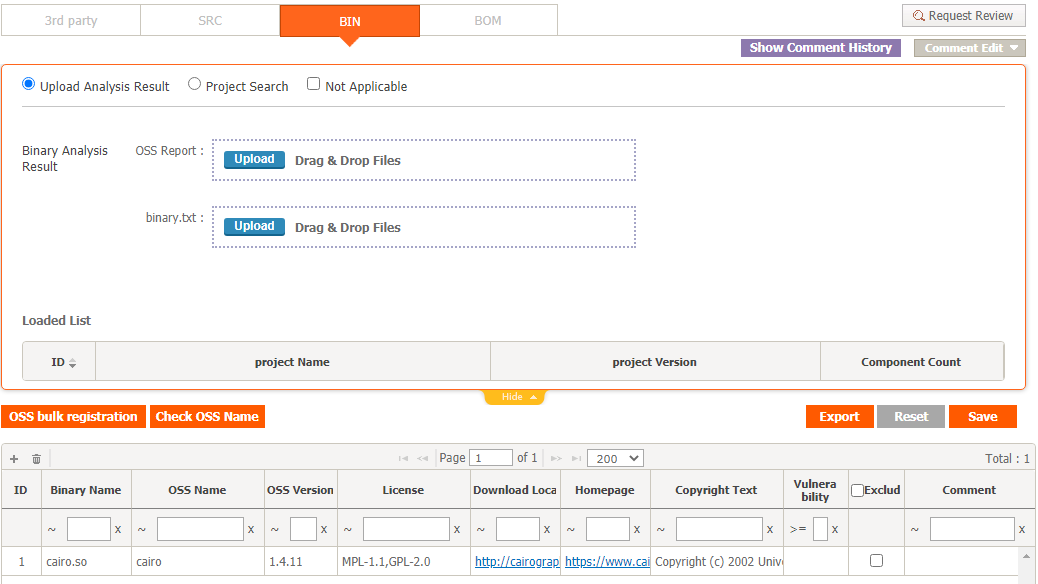
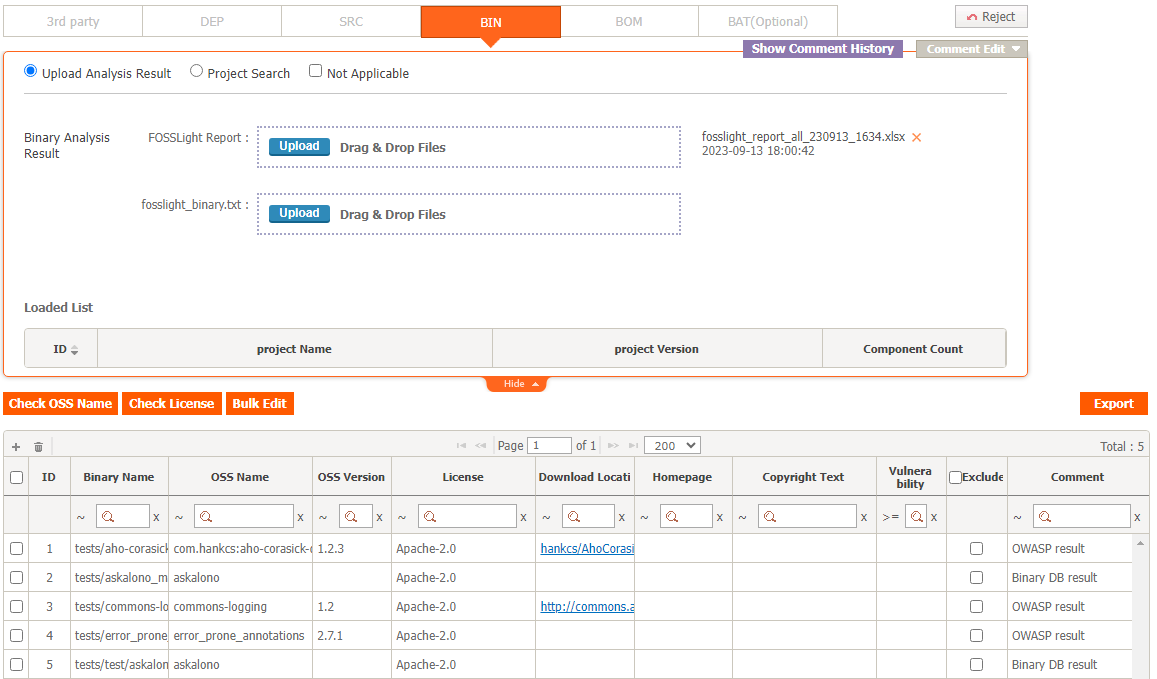
update dep tab

diff --git a/started/2_try/4_project.md b/started/2_try/4_project.md
@@ -78,7 +78,23 @@ Project List에서 Project Name을 더블 클릭합니다.
 1. 3rd Party Search : 3rd Party List 메뉴에서 Status: confirm인 3rd Party Software를 검색하고 load합니다.
 2. Project Search : 다른 Project의 3rd Party 탭을 load합니다.
 
-#### 2-2. SRC Tab
+#### 2-2. DEP Tab
+![prj](../images/4_project_dep.png)
+*DEP 탭 작성 Process*
+- Package manager를 통해 OSS가 포함된 경우: 각 dependency의 OSS 정보를 작성 -> Save
+- Package manager를 통해 OSS가 포함되지 않은 경우 : Not Applicable 체크 → Save
+
+*각 dependency의 OSS 정보 작성 방법* 
+- OSS Table에 수기로 작성
+    - OSS Table의 좌측 상단 + 버튼을 클릭하여 OSS 정보를 기입합니다.
+- OSS 정보 일괄 Load 하는 방법
+    1. Upload Analysis Result 란에 OSS List를 작성한 FOSSLight Report를 업로드합니다. 
+        - Load 가능한 FOSSLight Report 양식은 우측 상단 "Export"버튼을 클릭하면 다운로드 가능합니다. 
+    2. Project Search : 다른 Project의 DEP 탭을 Load합니다.
+- Scanner를 통해 자동 작성 방법
+    - FOSSLight Dependency Scanner를 통해 자동으로 OSS 정보 기입된 보고서 생성 가능합니다.
+
+#### 2-3. SRC Tab
 ![prj](../images/4_project_src.png)
 *SRC 탭 작성 Process*
 - Source code별 OSS가 포함된 경우: Source code별 OSS 정보를 작성 -> Save
@@ -92,7 +108,7 @@ Project List에서 Project Name을 더블 클릭합니다.
         - Load 가능한 FOSSLight Report 양식은 우측 상단 "Export"버튼을 클릭하면 다운로드 가능합니다. 
     2. Project Search : 다른 Project의 SRC 탭을 Load합니다.
 
-#### 2-3. BIN Tab
+#### 2-4. BIN Tab
 ![prj](../images/4_project_bin.png)
 *BIN 탭 작성 Process*
 - Binary가 포함된 경우 : Binary별 OSS 정보를 작성 -> Save
@@ -106,7 +122,7 @@ Project List에서 Project Name을 더블 클릭합니다.
         - Load 가능한 FOSSLight Report 양식은 우측 상단 "Export"버튼을 클릭하면 다운로드 가능합니다. 
     2. Project Search : 다른 Project의 BIN 탭을 Load합니다.
 
-#### 2-1. BOM Tab
+#### 2-5. BOM Tab
 3rd Party, SRC, BIN 탭에 작성된 OSS 목록을 취합하고 리뷰 요청을 합니다.
 ![prj](../images/4_project_bom.png)
 
